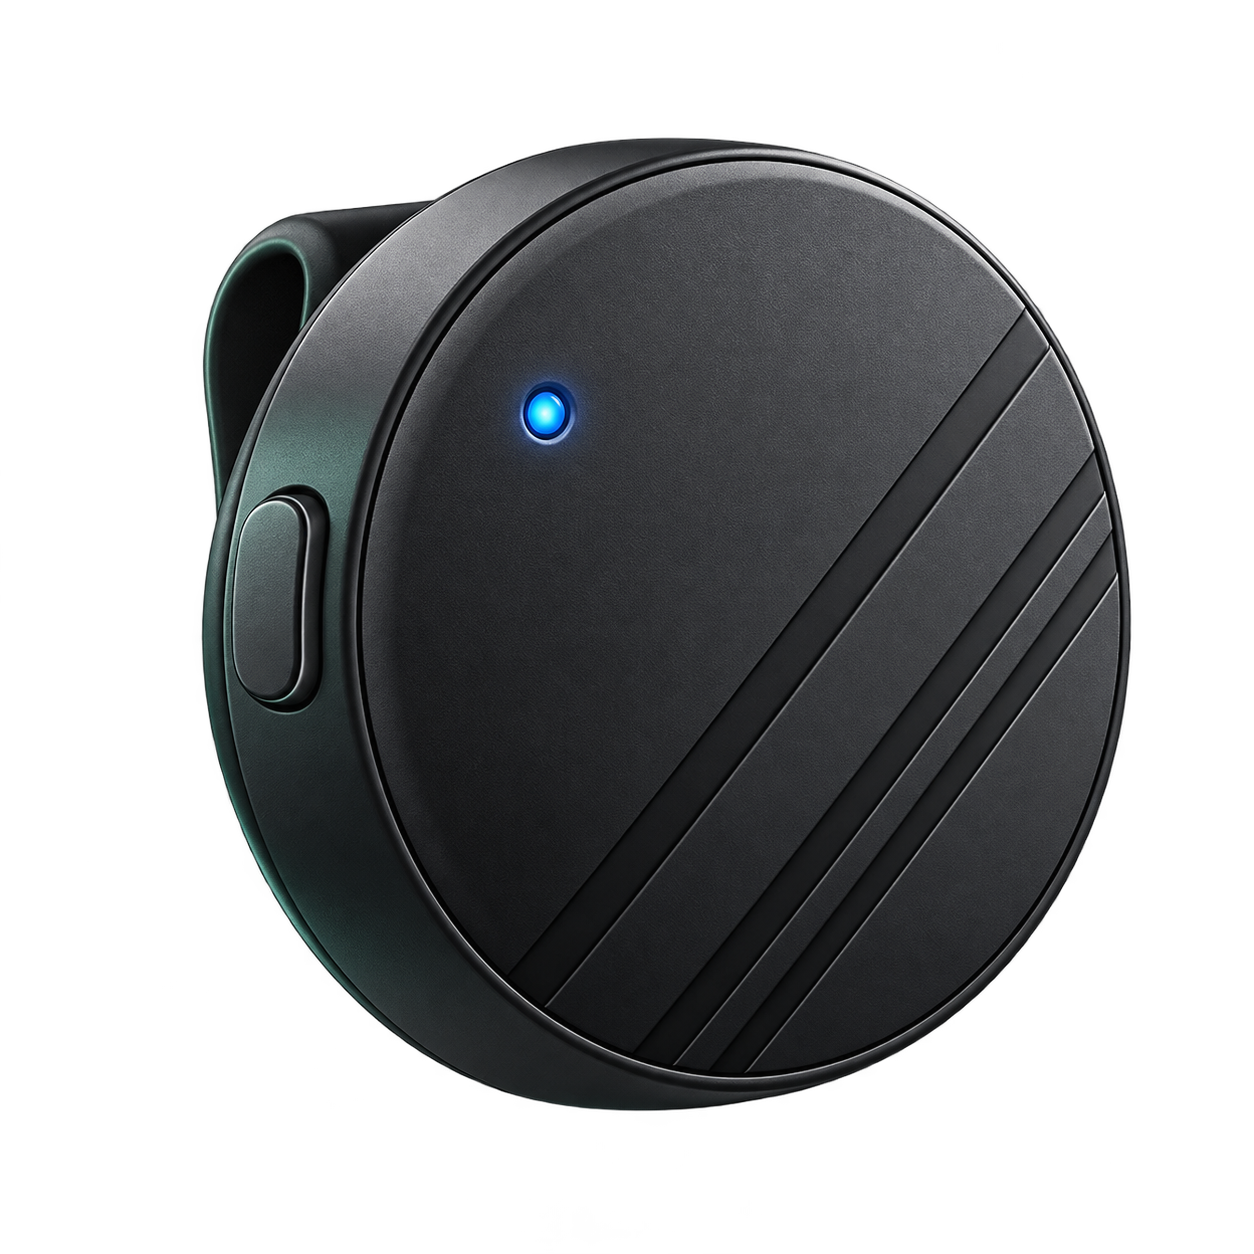
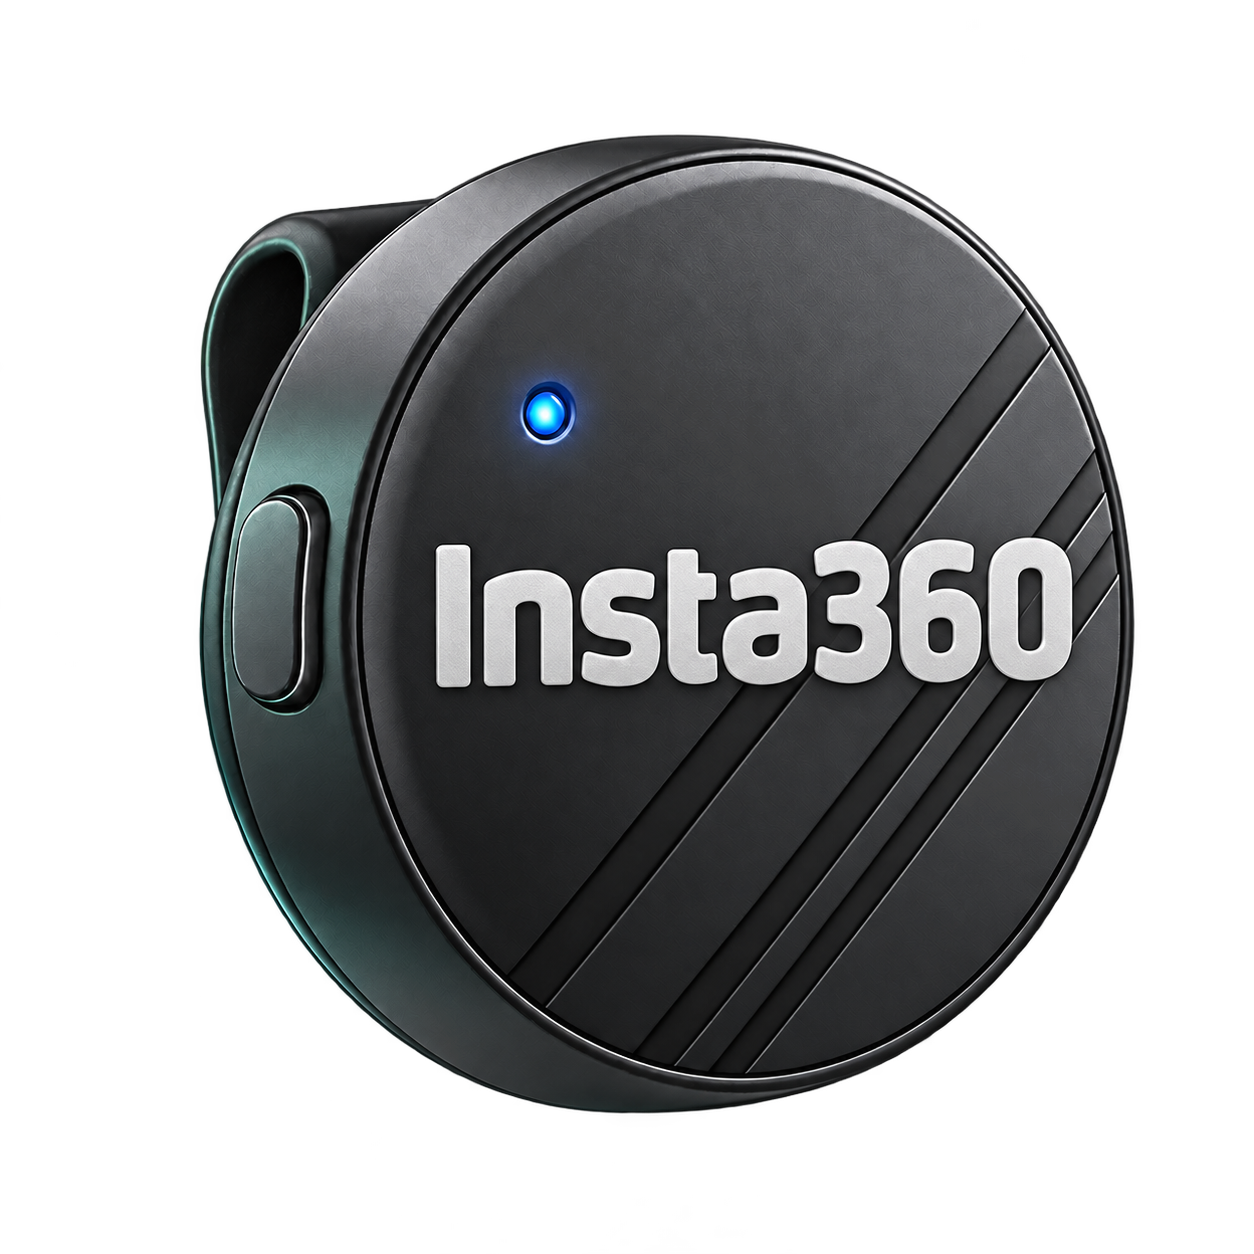
Label microphone illustration with large centered Insta360 text

diff --git a/assets/ARTWORK.md b/assets/ARTWORK.md
@@ -1,8 +1,31 @@
-# Original microphone artwork
+# Microphone illustration and device label
 
-`mic-air-original.png` is an original generic microphone concept illustration generated from the text prompt below with the built-in image_gen tool on 2026-10-24. No input image, product photograph, reference render, logo, or brand artwork was supplied. No CLI fallback or raster post-processing was used.
[1 lines of base64/hex data omitted]
 
-The image depicts a small round wireless microphone and a side button for use as a UI illustration. It is not an official product image and does not reproduce a brand mark. The generated alpha channel is preserved.
+For v1.0.9, the same built-in tool edited that project illustration to add the ordinary text `Insta360` on its front face, at the user's request, to identify the compatible device. Only the project illustration was supplied as the edit target; no official product photograph or logo asset was supplied. This is a labelled concept illustration, not an official product photograph or an endorsement. Third-party names and trademarks remain with their respective rights holders; the project does not grant trademark rights. The generated alpha channel is preserved. No CLI fallback or raster post-processing was used.
+
+The first label edit was then revised with the same built-in tool: the user requested much larger lettering at the centre of the circular face. Both edit prompts are recorded below. The final asset preserves the generated transparent alpha without raster post-processing.
+
+## Final label placement prompt (v1.0.9)
+
+```text
+Use case: precise-object-edit.
+Input image 1 is the EDIT TARGET: an existing transparent microphone illustration with the word Insta360 on it.
+User correction: the lettering is too small and sits off-center. Change ONLY the lettering size and placement. Remove the existing small lettering and put the exact word "Insta360" in MUCH LARGER, bold light-silver/off-white letters across the EXACT VISUAL CENTER of the ROUND FRONT FACE of the microphone. Center on the circular face itself, not on the entire image or on the blank area left of the diagonal grooves. The word should span about 70 to 75 percent of the visible front-face width, crossing the middle diagonal grooves naturally; its horizontal midpoint must match the face midpoint, and its vertical midpoint must lie at the mid-height of the face. Move it substantially right and down compared with the current lettering. The text must feel dominant, balanced, and immediately legible at a 128-pixel icon size. Keep the full word on one line. Use a clean heavy sans-serif with a simple shallow raised/printed finish and an approximately level baseline, with only the subtle perspective needed to sit on the face. Exact spelling: "Insta360".
+Keep every other element unchanged: whole microphone shape, composition, transparent margins, side button, blue LED, grooves, camera angle, perspective, material, shading, and lighting. Do not change the microphone body into a different product. Do not add any other text, emblem, badge, border or object. Preserve genuinely transparent alpha outside the object; no opaque background or checkerboard. Square transparent PNG.
+```
+
+## Initial label edit prompt (v1.0.9)
+
+```text
+Use case: precise-object-edit.
+Asset type: transparent PNG microphone illustration for a Windows desktop app, displayed at 128 x 128 pixels.
+Input image 1 is the EDIT TARGET: the project's existing generic round microphone illustration. It is not an official photograph.
+Primary request: add the exact text "Insta360" to the FRONT FACE of this existing microphone, so users can identify the compatible device immediately. Make the inscription large enough to stay clearly readable when the whole image is reduced to 128 pixels. Use a clean bold ordinary sans-serif, light silver/off-white lettering, sitting naturally on the microphone surface with subtle printed or shallow raised appearance. It should run across the central front face below the blue status LED, with very slight perspective matching that surface. Exact spelling and capitalization: I n s t a 3 6 0, joined as "Insta360".
+Keep unchanged: microphone silhouette, shape, angle, camera position, side button, blue LED, existing diagonal grooves, material texture, lighting, overall scale, margins, and transparent background. This is a single targeted text addition to the supplied image. Preserve the existing illustration rather than redesigning it into an official product render.
+Background: genuinely transparent alpha outside the microphone. No opaque background, checkerboard, floor, cast shadow, extra shapes, badges, captions, or text outside the device.
+Constraints: the only new element is the exact word "Insta360" on the microphone front. Do not add a front button, additional logo graphic, company icon, slogan, copyright mark, or any additional words. Output a square PNG with transparent background.
+```
 
 ## Application icon
 
@@ -14,7 +37,7 @@ To regenerate the icon on Windows:
 .\scripts\New-AppIcon.ps1
 ```
 
-## Final microphone generation prompt
+## Base microphone generation prompt (v1.0.8)
 
 ```text
 Use case: stylized-concept.

diff --git a/README.md b/README.md
@@ -10,13 +10,13 @@
 
 <table>
   <tr>
-    <td align="center"><img src="assets/mic-air-original.png" width="128" alt="原创圆形麦克风示意插图，侧边按钮可见"><br>按下 Mic Air 侧边按钮</td>
+    <td align="center"><img src="assets/mic-air-original.png" width="128" alt="带有 Insta360 字样的圆形麦克风示意插图，侧边按钮可见"><br>按下 Mic Air 侧边按钮</td>
     <td align="center">→</td>
     <td align="center"><img src="assets/voice-illustration.png" width="112" alt="语音输入示意图"><br>启动豆包输入法语音</td>
   </tr>
 </table>
 
-运行时会优先显示用户电脑上已安装的豆包输入法图标；公开仓库和下载包不附带该品牌图标。上图使用项目原创示意素材。
+运行时会优先显示用户电脑上已安装的豆包输入法图标；公开仓库和下载包不附带该品牌图标。麦克风图是项目示意插图，新增的 “Insta360” 文字用于识别兼容设备，并非官方产品照片。
 
 ## 能做什么
 
@@ -116,6 +116,6 @@
 
 ## 许可与归属
 
-本项目原创代码采用 [MIT License](LICENSE)。随附第三方组件及品牌图形分别适用其自身条款，并不因本仓库的 MIT 许可而改变；详见 [THIRD_PARTY_NOTICES.md](THIRD_PARTY_NOTICES.md)。
+本项目原创代码采用 [MIT License](LICENSE)。第三方组件遵守各自许可；本项目的 MIT 许可不授予 Insta360 或其他第三方商标权。详见 [THIRD_PARTY_NOTICES.md](THIRD_PARTY_NOTICES.md)。
 
 这是一个独立项目，与 Insta360 / 影石及豆包没有官方隶属或背书关系。

diff --git a/THIRD_PARTY_NOTICES.md b/THIRD_PARTY_NOTICES.md
@@ -37,7 +37,7 @@ API/library 采用 LGPLv3。与 EXE 同一 Release 提供对应 API 源码和本
 
 ### 公开版麦克风插图
 
-公开版的麦克风插图 assets/mic-air-original.png 使用独立提示生成，不使用官方产品图片作为输入，也不含厂商标识。在本项目有权许可的范围内，该插图与本项目一起按 MIT 许可提供；此声明不承诺 AI 输出具有可独占的著作权，也不授予任何第三方商标、产品标识或其他保留权利。它是通用麦克风示意图，不是 Insta360 官方产品图片。生成来源见 [assets/ARTWORK.md](assets/ARTWORK.md)。
+公开版的麦克风插图 assets/mic-air-original.png 最初由文字描述独立生成，随后在项目已有插图上添加普通“Insta360”文字，用于识别兼容设备。未使用官方产品图片或官方 logo 素材作为输入；它是项目示意插图，不是官方产品照片，也不表示厂商授权或背书。在本项目有权许可的范围内，该插图按 MIT 提供；此声明不承诺 AI 输出具有可独占的著作权，也不授予 Insta360 或其他第三方商标权。生成来源见 [assets/ARTWORK.md](assets/ARTWORK.md)。
 
 ### 项目图标与通用语音插图
 

diff --git a/CHANGELOG.md b/CHANGELOG.md
@@ -1,5 +1,10 @@
 # 更新记录
 
+## 1.0.9
+
+- 麦克风示意插图添加“Insta360”字样，让兼容设备更容易辨认。
+- 本次仅更新图片和说明，功能保持不变。
+
 ## 1.0.8
 
 - 最小化到系统托盘，单击托盘图标恢复界面，右键菜单继续可用。
